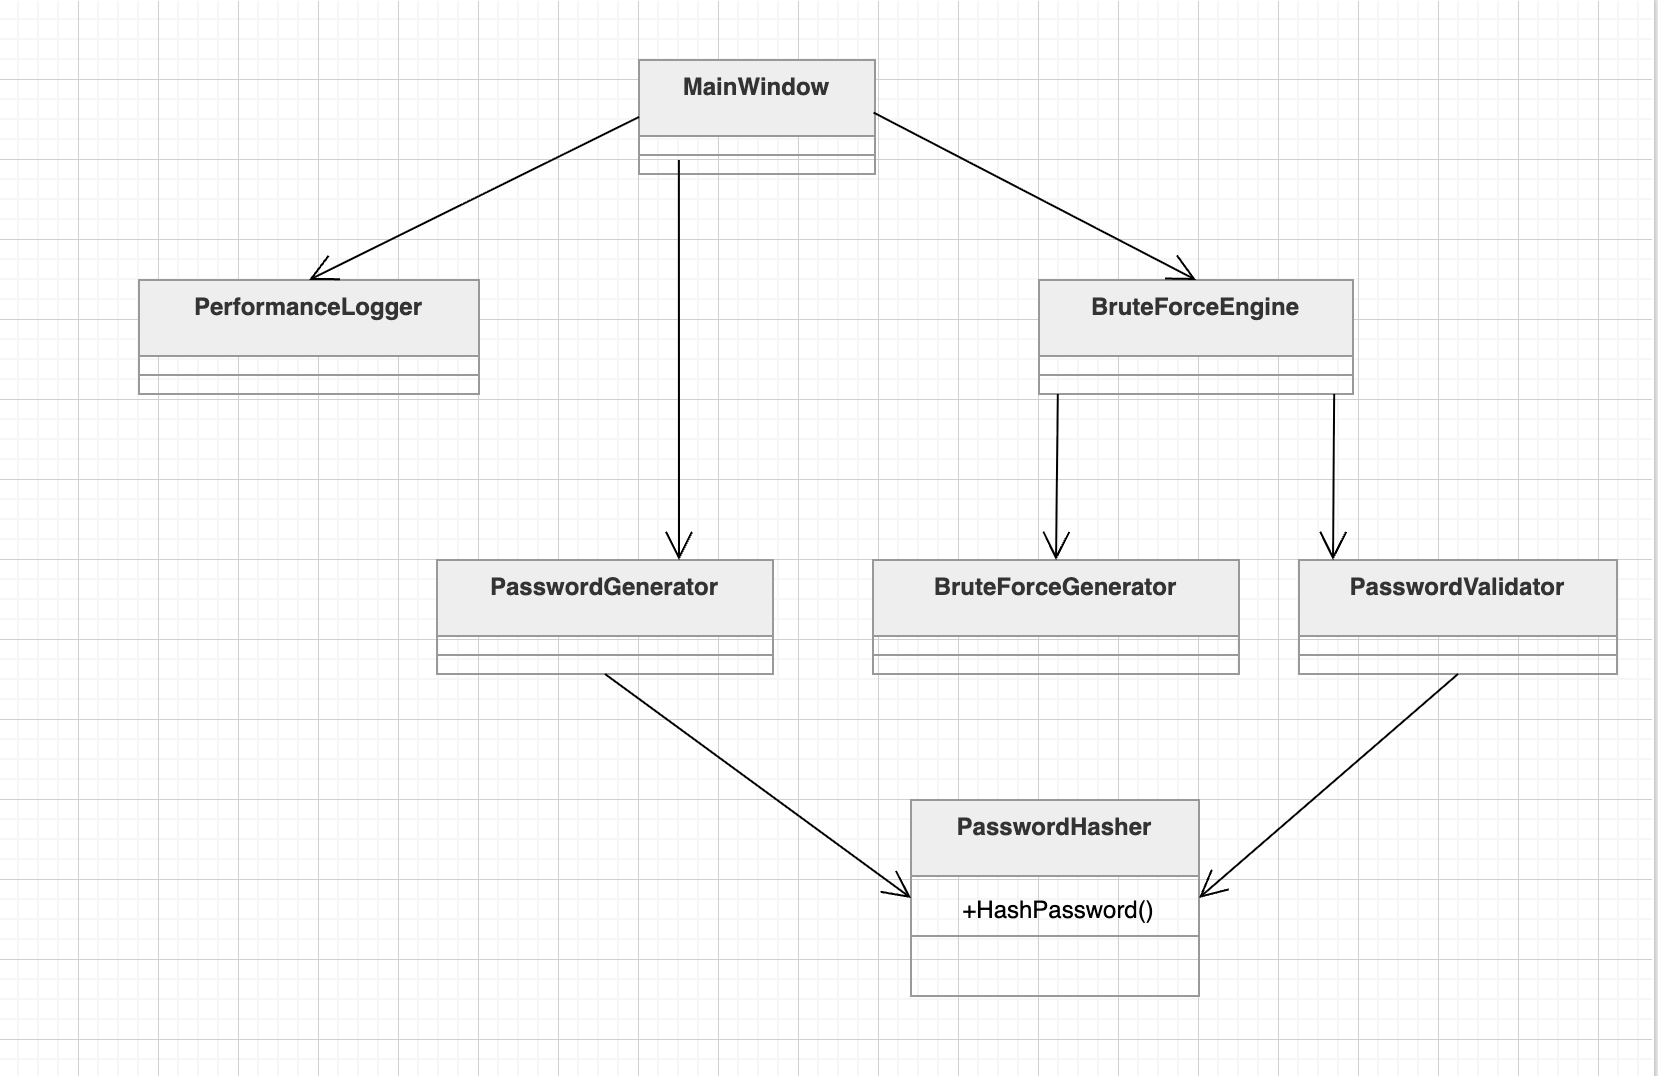
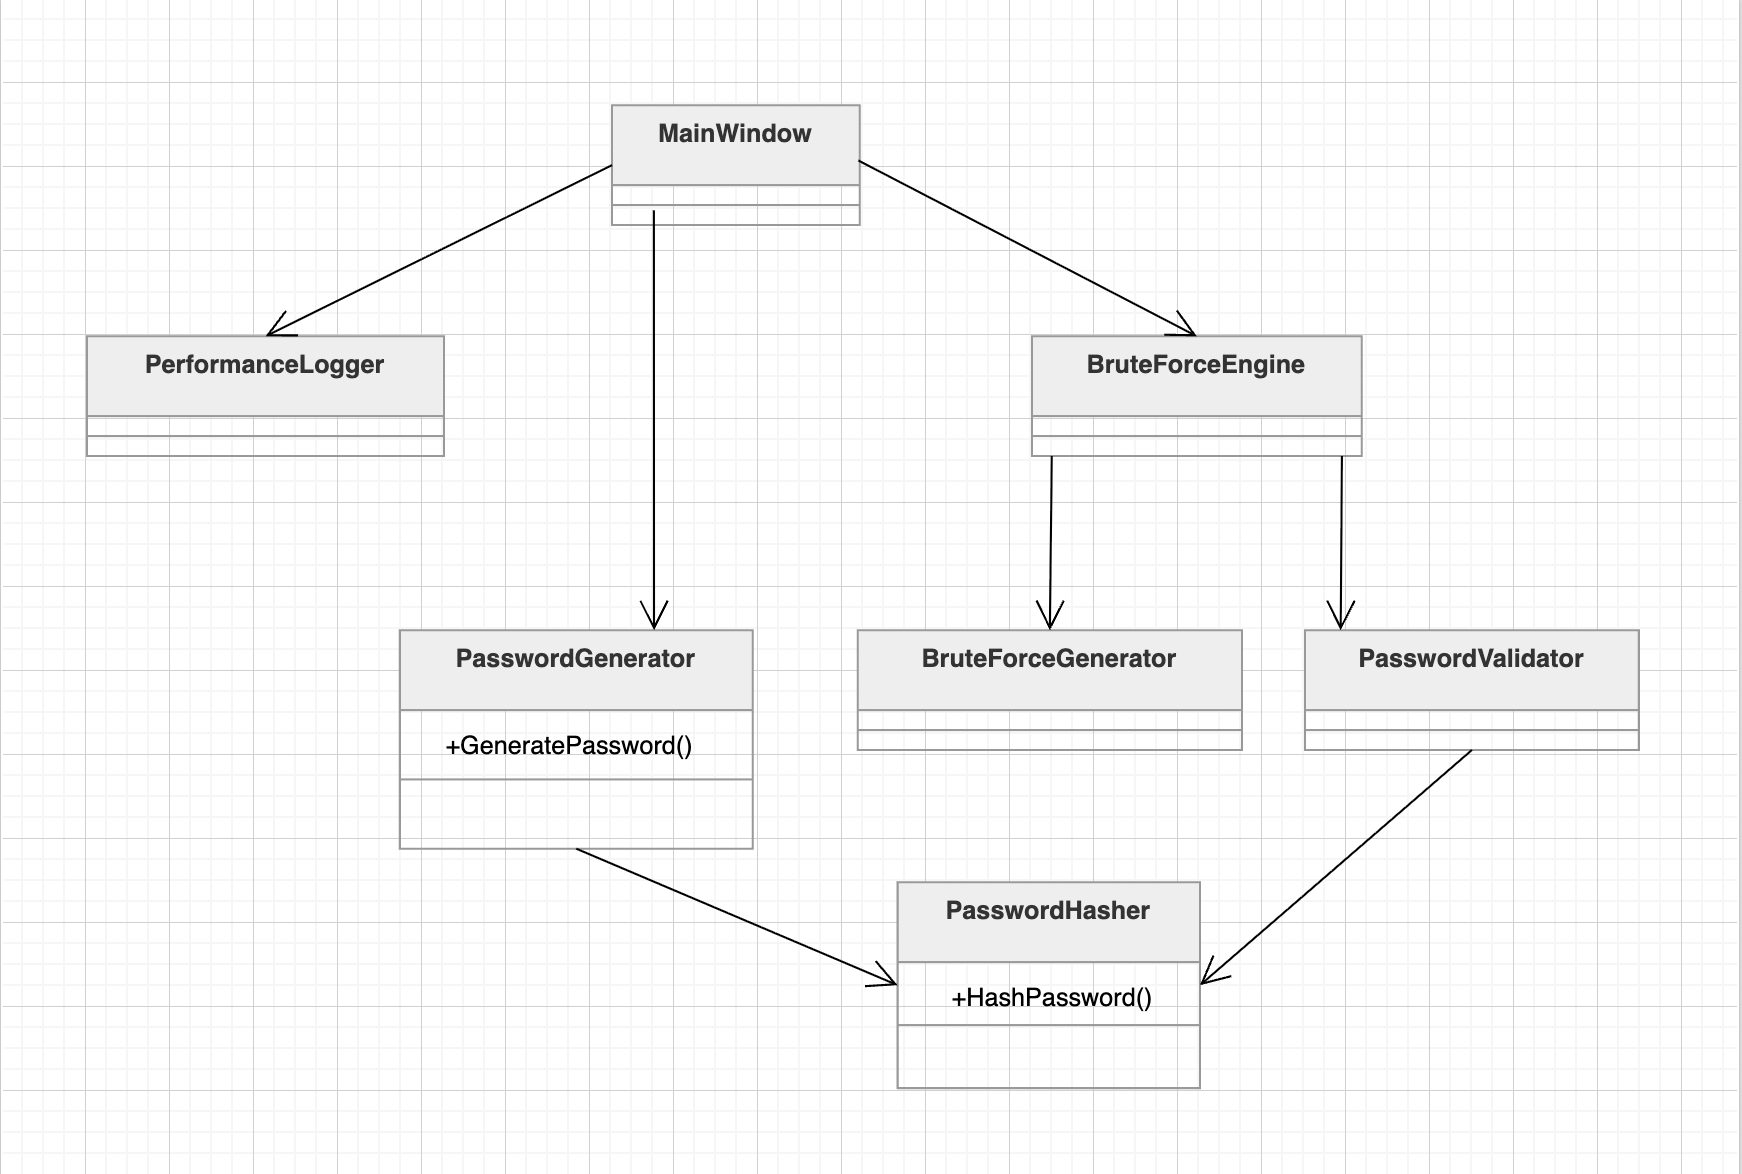
Added PasswordGenerator with hashing and updated UML

diff --git a/PasswordGenerator.cs b/PasswordGenerator.cs
@@ -1,7 +1,31 @@
+using System;
+using System.Text;
+
 namespace BruteForcePasswordCracker
 {
     public class PasswordGenerator
     {
-        
+        private const string CharSet = "abcdefghijklmnopqrstuvwxyz";
+
+        private Random rng = new Random();
+        private PasswordHasher passwordHasher = new PasswordHasher();
+
+       public string PlainPassword { get; private set; } = "";
+       public string HashedPassword { get; private set; } = "";
+
+        public void GeneratePassword()
+        {
+            int length = rng.Next(4, 6);
+
+            StringBuilder result = new StringBuilder();
+            for (int i = 0; i < length; i++)
+            {
+                int pick = rng.Next(CharSet.Length);
+                result.Append(CharSet[pick]);
+            }
+            PlainPassword = result.ToString();
+
+            HashedPassword = passwordHasher.HashPassword(PlainPassword);
+        }
     }
 }

diff --git a/README.md b/README.md
@@ -35,3 +35,9 @@ multi-threaded performance. The GUI is built with Avalonia (cross-platform C#).
 - Implemented PasswordHasher class
 - Added SHA256 hashing with a static salt
 - Updated UML to show HashPassword method
+
+### Version 3
+- Implemented PasswordGenerator class
+- Generates a random 4-5 character lowercase password
+- Hashes the generated password using PasswordHasher
+- Updated the UML diagram